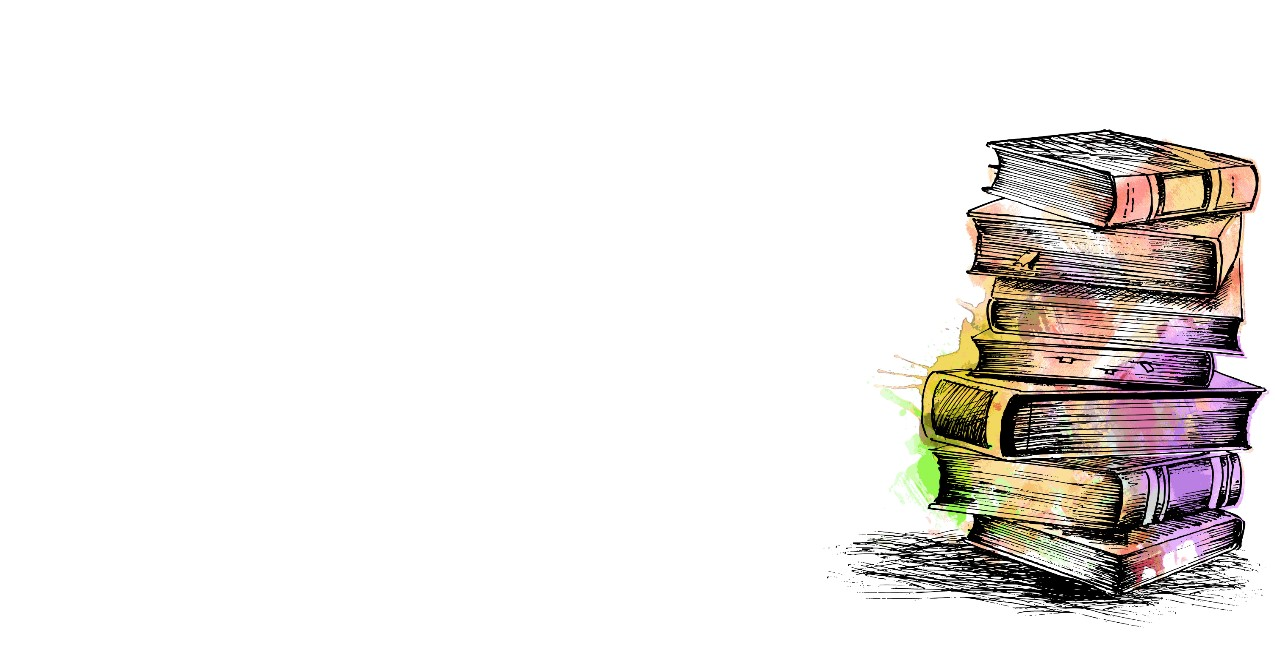
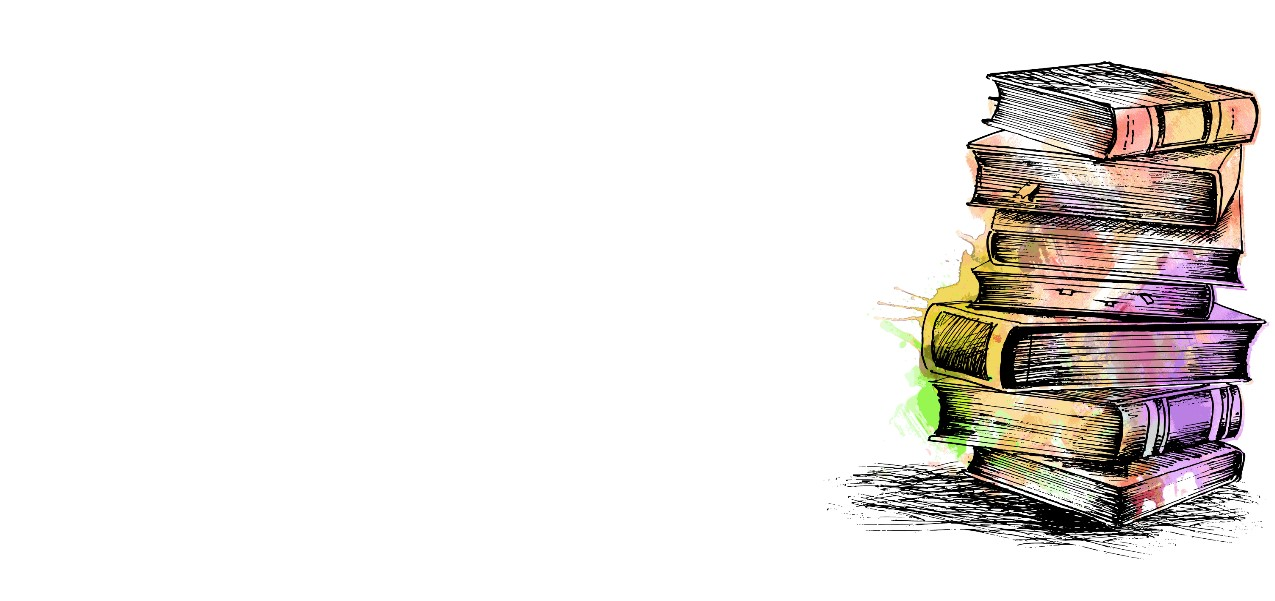
Styling in CSS for big screen

Changed region(s): [[0.6424, 0.0899, 1.0, 0.9285]]

diff --git a/src/Results.js b/src/Results.js
@@ -9,6 +9,7 @@ export default function Results(props) {
     return (
       <div className="Results">
         <h2>{props.results.word}</h2>
+
         {props.results.phonetics.map(function (phonetic, index) {
           return (
             <div key={index}>
@@ -16,13 +17,31 @@ export default function Results(props) {
             </div>
           );
         })}
-        {props.results.meanings.map(function (meaning, index) {
-          return (
-            <div key={index}>
-              <Meaning meaning={meaning} />
-            </div>
-          );
-        })}
+        <br />
+        <p>
+          <a
+            className="definition-button"
+            data-bs-toggle="collapse"
+            href="#collapseMeanings"
+            role="button"
+            aria-expanded="false"
+            aria-controls="collapseMeanings"
+          >
+            Definitions
+          </a>
+        </p>
+
+        <div className="collapse" id="collapseMeanings">
+          <div className="card card-body">
+            {props.results.meanings.map(function (meaning, index) {
+              return (
+                <div key={index}>
+                  <Meaning meaning={meaning} />
+                </div>
+              );
+            })}
+          </div>
+        </div>
       </div>
     );
   } else {

diff --git a/src/Results.css b/src/Results.css
@@ -1,11 +1,52 @@
 .Results {
   margin: 15px;
+  height: 400px;
+  overflow: auto;
+  scrollbar-color: blue;
+  scrollbar-width: thin;
+  font-size: 13px;
 }
 
 .Results h2 {
-  margin-top: 15px;
+  margin-top: 30px;
 }
 
 .emptyDiv {
-  padding-top: 360px;
+  padding-top: 395px;
+}
+
+.phonetics-button {
+  color: white;
+  background-color: rgb(150, 247, 79);
+  border: 2px solid white;
+  padding: 6px 8px;
+  border-radius: 15px;
+  text-decoration: none;
+}
+
+.phonetics-button:hover {
+  color: rgb(150, 247, 79);
+  background-color: white;
+  border-color: rgb(150, 247, 79);
+}
+
+.card {
+  border: none;
+  background-color: rgb(255, 255, 255, 0.1);
+}
+
+.definition-button {
+  color: white;
+  background-color: rgb(243, 215, 98);
+  border: 2px solid white;
+  padding: 6px 8px;
+  border-radius: 15px;
+  text-decoration: none;
+  margin-top: 20px;
+}
+
+.definition-button:hover {
+  color: rgb(243, 215, 98);
+  background-color: white;
+  border-color: rgb(243, 215, 98);
 }

diff --git a/src/App.js b/src/App.js
@@ -9,7 +9,9 @@ function App() {
       style={{
         backgroundImage: `url(${book})`,
         backgroundSize: "100%",
-        maxWidth: "90%",
+        backgroundRepeat: "no-repeat",
+        backgroundAttachment: "fixed",
+        maxWidth: "100%",
       }}
     >
       <div className="component">

diff --git a/src/App.css b/src/App.css
@@ -6,10 +6,10 @@
 
 .App .component {
   padding: 50px;
-  max-width: 1200px;
-  max-height: 1000px;
+  max-width: 900px;
+  max-height: 700px;
   margin: 0 auto;
-  margin-right: 300px;
+  margin-right: 400px;
 }
 
 .App header {

diff --git a/src/Meaning.js b/src/Meaning.js
@@ -1,5 +1,6 @@
 import React from "react";
 import Synonyms from "./Synonyms";
+import "./Meaning.css";
 
 export default function Meaning(props) {
   return (

diff --git a/src/AudioPlayer.css b/src/AudioPlayer.css
@@ -1,5 +1,6 @@
 button {
   display: inline;
-  color: white;
-  background-color: black;
+  color: black;
+  background-color: white;
+  border: none;
 }

diff --git a/src/Meaning.css b/src/Meaning.css
@@ -1,0 +1,3 @@
+.Meaning {
+  background-color: rgb(255, 255, 255, 0.1);
+}
